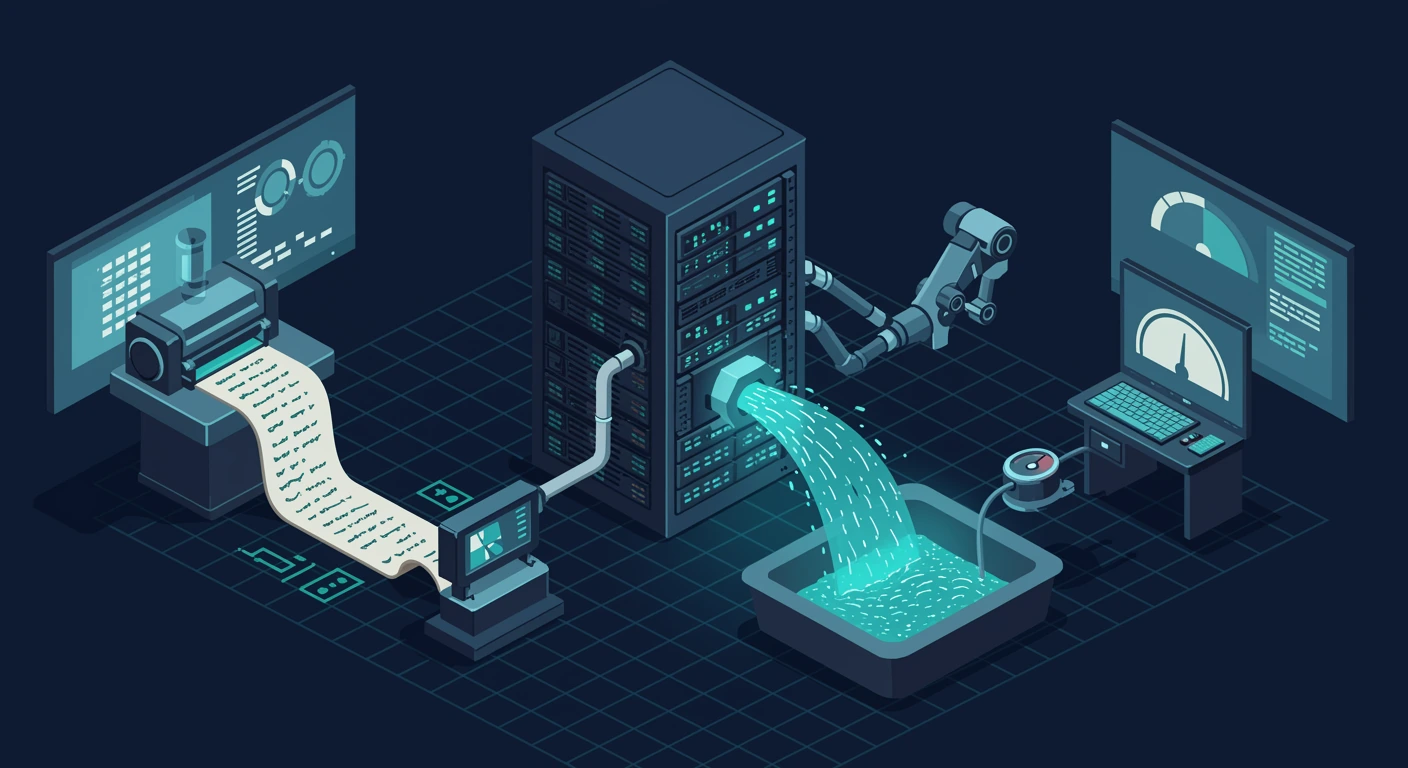
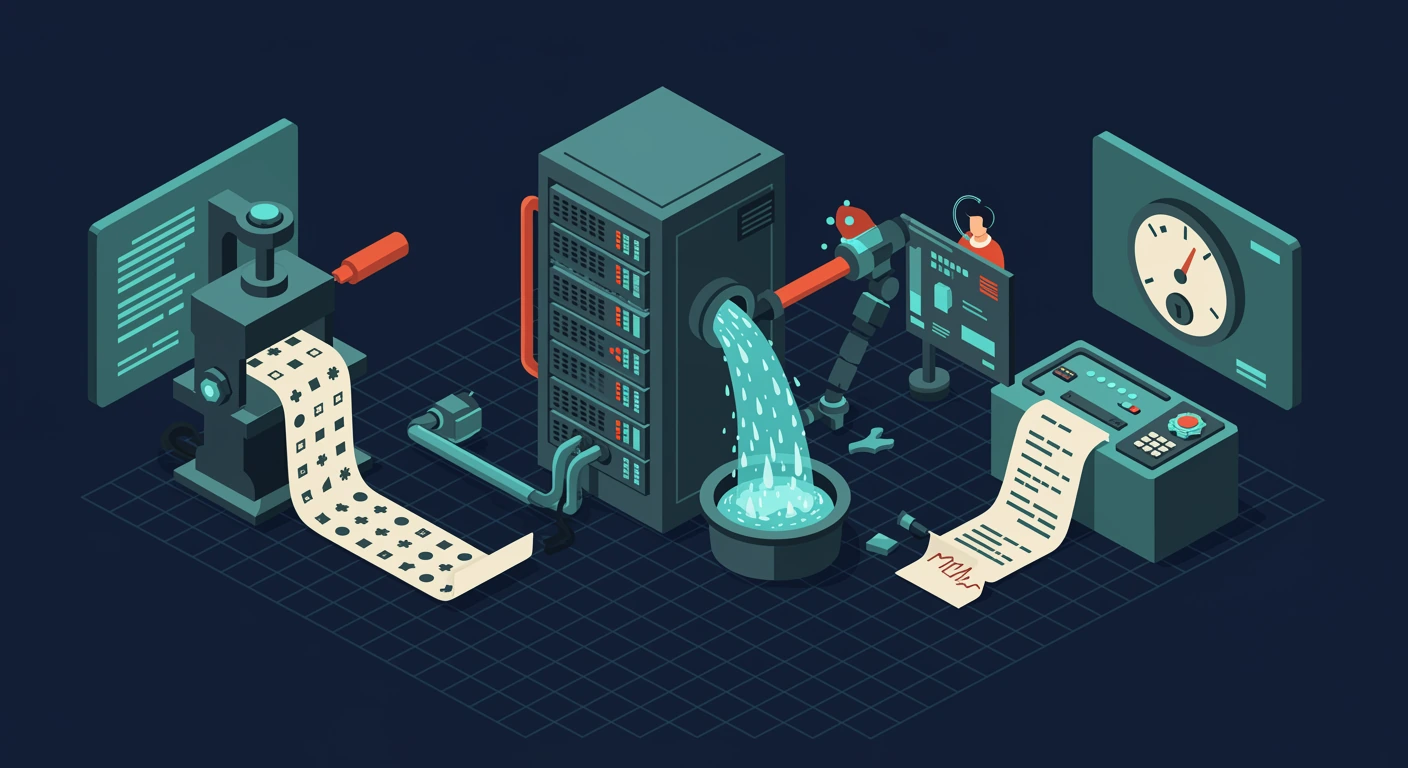
CSE lecture: blank the two surfaces that rendered fake handwriting
Chris BLOCK. Two of the 24 visuals carried cursive scrawl on a focal element, and I had
claimed all 24 were text-free:

  ch7-01 three-telemetry  the audit ledger ribbon, rows of joined fake letterforms
  ch8-04 guardrails       the top sheet on the binder stack, same treatment

Both are load-bearing objects, not frame corners -- a back-row student reads them as
"there is writing there I cannot make out", which is the exact distraction the standard
exists to prevent.

Why I missed them: I reviewed 24 images as contact sheets downscaled to 660px, which is
below the size at which scrawl is distinguishable from the abstract dash convention the
set uses legitimately. Verification has to happen at the resolution the defect lives at.
This pass used 2x zoomed crops of the specific surfaces.

Fix follows the pattern that worked for the UI-panel garbling earlier in this deck: give
the surface something non-letterform to carry rather than restating "no text" more
loudly. The ledger now punches solid geometric shapes; the binder stack is closed blank
covers with no loose sheets.

Also fixed, from the same review: the extractor stripped a literal "Demo:" prefix but the
companion deck writes "Demo cue:", so one presenter note read "DEMO - Demo cue: ...".
Presenter-only text, never projected, but wrong.

Chris ruled the "CERTIFICATE" word on ch8-02 STAYS -- single correct on-topic word,
functionally identical to the "API" already passed on ch1, and it reinforces the read.
[…]

diff --git a/_app/houses/cloud/cse/instructor/cse-lecture-ch6.html b/_app/houses/cloud/cse/instructor/cse-lecture-ch6.html
@@ -251,7 +251,7 @@
       </div>
     </section>
 
-    <section class="slide" data-notes="{&quot;points&quot;: [&quot;The dependency tree is deeper than anyone thinks. A handful of direct dependencies routinely pulls in hundreds transitively. Nobody has read them. SCA exists because nobody can.&quot;, &quot;Containers do not shrink this, they package it. A base image carries an entire OS distribution&#x27;s worth of packages, most unused, all inheritable as CVEs. Minimal and distroless bases are a security control, not a size optimisation.&quot;, &quot;Provenance beats scanning alone: signed images, pinned digests instead of mutable tags, and a registry you control. :latest is not a version, it is a promise someone else can change.&quot;, &quot;Secrets in images &amp;mdash; baked-in keys survive in every layer forever, even if a later layer deletes the file. Layers are additive; deletion is cosmetic.&quot;, &quot;DEMO \u2014 Demo cue: pull any popular base image and run a scanner. The count of known CVEs in something nobody wrote a line of is the whole lesson.&quot;]}">
+    <section class="slide" data-notes="{&quot;points&quot;: [&quot;The dependency tree is deeper than anyone thinks. A handful of direct dependencies routinely pulls in hundreds transitively. Nobody has read them. SCA exists because nobody can.&quot;, &quot;Containers do not shrink this, they package it. A base image carries an entire OS distribution&#x27;s worth of packages, most unused, all inheritable as CVEs. Minimal and distroless bases are a security control, not a size optimisation.&quot;, &quot;Provenance beats scanning alone: signed images, pinned digests instead of mutable tags, and a registry you control. :latest is not a version, it is a promise someone else can change.&quot;, &quot;Secrets in images &amp;mdash; baked-in keys survive in every layer forever, even if a later layer deletes the file. Layers are additive; deletion is cosmetic.&quot;, &quot;DEMO \u2014 pull any popular base image and run a scanner. The count of known CVEs in something nobody wrote a line of is the whole lesson.&quot;]}">
       <h2>Your dependencies and your images are the realistic path in</h2>
       <p class="sub">Close the chapter where the actual incidents happen.</p>
       <div class="visual">

diff --git a/_app/houses/cloud/cse/instructor/cse-lecture-ch5.html b/_app/houses/cloud/cse/instructor/cse-lecture-ch5.html
@@ -237,7 +237,7 @@
       </div>
     </section>
 
-    <section class="slide" data-notes="{&quot;points&quot;: [&quot;Where it is defensible: port 443 on a load balancer that is deliberately public. That is the job.&quot;, &quot;Where it is a breach: port 22, 3389, or a database port. Management and data planes should never face the internet, and mass-scanners find them in minutes &amp;mdash; chapter two&#x27;s speed symmetry, made concrete.&quot;, &quot;The habit to teach: every rule answers two questions, port AND source. Students fixate on the port and default the source to anywhere. Make them say the source out loud each time.&quot;, &quot;The systemic fix: guardrails that reject the rule at creation beat audits that find it later. Preventive control over detective control &amp;mdash; a theme that returns in chapter eight.&quot;, &quot;DEMO \u2014 Demo cue: in the OpenStack sandbox, create a security group rule open to 0.0.0.0/0 . Let them see how completely ordinary it looks. The worst mistake in cloud networking produces no error message.&quot;]}">
+    <section class="slide" data-notes="{&quot;points&quot;: [&quot;Where it is defensible: port 443 on a load balancer that is deliberately public. That is the job.&quot;, &quot;Where it is a breach: port 22, 3389, or a database port. Management and data planes should never face the internet, and mass-scanners find them in minutes &amp;mdash; chapter two&#x27;s speed symmetry, made concrete.&quot;, &quot;The habit to teach: every rule answers two questions, port AND source. Students fixate on the port and default the source to anywhere. Make them say the source out loud each time.&quot;, &quot;The systemic fix: guardrails that reject the rule at creation beat audits that find it later. Preventive control over detective control &amp;mdash; a theme that returns in chapter eight.&quot;, &quot;DEMO \u2014 in the OpenStack sandbox, create a security group rule open to 0.0.0.0/0 . Let them see how completely ordinary it looks. The worst mistake in cloud networking produces no error message.&quot;]}">
       <h2>The rule that quietly allows everything</h2>
       <p class="sub">Spend a full minute here. This single line causes more incidents than any exploit in the syllabus.</p>
       <div class="visual">

diff --git a/_app/houses/cloud/cse/instructor/cse-lecture-ch3.html b/_app/houses/cloud/cse/instructor/cse-lecture-ch3.html
@@ -237,7 +237,7 @@
       </div>
     </section>
 
-    <section class="slide" data-notes="{&quot;points&quot;: [&quot;Why over-permissioning happens: broad access makes the error go away at 2am, and nothing ever forces the cleanup. Privilege only ratchets upward unless something pushes back.&quot;, &quot;Start from zero. Grant nothing, add what breaks. The reverse &amp;mdash; grant everything, remove what seems unused &amp;mdash; never completes. Nobody dares remove the last unknown permission.&quot;, &quot;Prefer roles over identities. Assign privilege to the JOB, let identities assume the job temporarily. Time-boxed assumption beats permanent attachment.&quot;, &quot;Audit the gap. Modern platforms can diff permissions GRANTED against permissions actually USED in the last 90 days. That diff is your least-privilege to-do list, generated for free.&quot;, &quot;DEMO \u2014 Demo cue: the students met this the hard way &amp;mdash; the IAM Policy Debugger game in this house is ten rounds of exactly this slide. Assign it as the homework companion.&quot;]}">
+    <section class="slide" data-notes="{&quot;points&quot;: [&quot;Why over-permissioning happens: broad access makes the error go away at 2am, and nothing ever forces the cleanup. Privilege only ratchets upward unless something pushes back.&quot;, &quot;Start from zero. Grant nothing, add what breaks. The reverse &amp;mdash; grant everything, remove what seems unused &amp;mdash; never completes. Nobody dares remove the last unknown permission.&quot;, &quot;Prefer roles over identities. Assign privilege to the JOB, let identities assume the job temporarily. Time-boxed assumption beats permanent attachment.&quot;, &quot;Audit the gap. Modern platforms can diff permissions GRANTED against permissions actually USED in the last 90 days. That diff is your least-privilege to-do list, generated for free.&quot;, &quot;DEMO \u2014 the students met this the hard way &amp;mdash; the IAM Policy Debugger game in this house is ten rounds of exactly this slide. Assign it as the homework companion.&quot;]}">
       <h2>Least privilege is engineering, not aspiration</h2>
       <p class="sub">Every student will nod at the principle. Teach the practice.</p>
       <div class="visual">

diff --git a/_app/houses/cloud/cse/instructor/cse-lecture-ch2.html b/_app/houses/cloud/cse/instructor/cse-lecture-ch2.html
@@ -237,7 +237,7 @@
       </div>
     </section>
 
-    <section class="slide" data-notes="{&quot;points&quot;: [&quot;Scale of surface. A modest cloud estate has thousands of individually-configurable resources, each with its own policy document. Every one is a chance to be wrong.&quot;, &quot;Nobody reviews. Self-service (chapter one, clause one) means the misconfiguration ships the moment it is typed.&quot;, &quot;Drift. Correct on Monday is not correct in June. Configuration decays unless something continuously re-checks it &amp;mdash; that is why posture management tools exist.&quot;, &quot;The classic case. Public object storage: gigabytes of customer data behind a checkbox. Walk one real disclosure with the class &amp;mdash; the pattern repeats yearly with new names attached.&quot;, &quot;DEMO \u2014 Demo cue: in the OpenStack sandbox, create a security group rule open to 0.0.0.0/0 and let the class watch how unremarkable it looks. The point: the worst mistake in cloud security produces no error message.&quot;]}">
+    <section class="slide" data-notes="{&quot;points&quot;: [&quot;Scale of surface. A modest cloud estate has thousands of individually-configurable resources, each with its own policy document. Every one is a chance to be wrong.&quot;, &quot;Nobody reviews. Self-service (chapter one, clause one) means the misconfiguration ships the moment it is typed.&quot;, &quot;Drift. Correct on Monday is not correct in June. Configuration decays unless something continuously re-checks it &amp;mdash; that is why posture management tools exist.&quot;, &quot;The classic case. Public object storage: gigabytes of customer data behind a checkbox. Walk one real disclosure with the class &amp;mdash; the pattern repeats yearly with new names attached.&quot;, &quot;DEMO \u2014 in the OpenStack sandbox, create a security group rule open to 0.0.0.0/0 and let the class watch how unremarkable it looks. The point: the worst mistake in cloud security produces no error message.&quot;]}">
       <h2>Misconfiguration is the number-one cause. Say why.</h2>
       <p class="sub">Not because engineers got worse &mdash; because the defaults meet self-service.</p>
       <div class="visual">

diff --git a/_planning/cse-visuals/ch2-8/regen2.py b/_planning/cse-visuals/ch2-8/regen2.py
@@ -1,0 +1,46 @@
+import os, io, requests, fal_client
+from PIL import Image
+from ch2_8_specs import BASE, NOTEXT
+
+# Both failures put CURSIVE SCRAWL on a paper surface -- a ledger ribbon and a sheet on a
+# binder stack. Paper is the surface that most strongly implies writing, so the fix is the
+# same as the UI-panel one: describe the surface as explicitly blank and give it a
+# non-letterform alternative to carry, rather than restating "no text" harder.
+NOSCRAWL = ("\n\nEVERY sheet of paper, ribbon, page, label and document in this image is "
+            "COMPLETELY BLANK -- no handwriting, no cursive, no scrawl, no wavy lines "
+            "imitating writing, no rows of text, no letterforms of any kind. Paper surfaces "
+            "are plain empty colour.")
+
+JOBS = {
+ "ch7-01-three-telemetry": (
+   "Scene: three very different instruments reading one machine.\n\n"
+   "One large glowing server machine stands in the centre. Three completely different "
+   "instruments are attached to it, each tended by its own small robot:\n\n"
+   "LEFT -- a heavy mechanical stamping press punching a row of identical small SOLID GEOMETRIC "
+   "SHAPES onto a long unrolling blank ribbon: plain filled circles and squares only, evenly "
+   "spaced like a punch-card, absolutely not writing. The ribbon is otherwise completely blank. "
+   "Glowing emerald.\n\n"
+   "CENTRE -- a firehose nozzle gushing an overwhelming torrent of tiny glowing droplets into an "
+   "overflowing basin, far more than anyone could catch. Glowing cyan.\n\n"
+   "RIGHT -- a single large clean gauge dial with one needle swinging sharply into a red zone. "
+   "The dial face has plain tick marks and no numbers. Glowing amber.\n\n"
+   "The three outputs must look nothing like each other."),
+
+ "ch8-04-guardrails": (
+   "Scene: what actually stops the vehicle.\n\n"
+   "On the LEFT, a towering teetering stack of dusty BLANK binders and plain closed folders, far "
+   "taller than the small human beside it, leaning dangerously. Every binder is shut and its "
+   "cover is plain unmarked colour. No loose papers, no open pages, no sheets on top. A vehicle "
+   "drives straight PAST the stack without slowing and one binder topples off unnoticed.\n\n"
+   "On the RIGHT, the same vehicle meets solid, heavy, glowing EMERALD GREEN physical GUARDRAILS "
+   "along a curve of road. The vehicle is firmly deflected back onto the road, sparks where it "
+   "touched, unable to leave the path. The rails are strong and obviously effective.\n\n"
+   "Same road, same vehicle, two very different outcomes."),
+}
+
+for slug, body in JOBS.items():
+    res = fal_client.subscribe('fal-ai/imagen3', arguments={
+        'prompt': BASE + body + NOTEXT + NOSCRAWL, 'aspect_ratio': '16:9'})
+    img = Image.open(io.BytesIO(requests.get(res['images'][0]['url'], timeout=180).content)).convert('RGB')
+    img.save(slug + '.webp', 'webp', quality=92, method=6)
+    print(' regenerated', slug, os.path.getsize(slug+'.webp')//1024, 'KB')

diff --git a/_planning/cse-visuals/ch2-8/build-decks.py b/_planning/cse-visuals/ch2-8/build-decks.py
@@ -47,7 +47,7 @@ def notes_json(slide):
     must NOT be projected; the whole point of the presenter panel."""
     def clean(s):
         # strip the leading bold label the companion deck uses inside cue/ask/demo divs
-        return re.sub(r'^(Class anchor:|Ask the room:|Demo:)\s*', '', s).strip().strip('"')
+        return re.sub(r'^(Class anchor:|Ask the room:|Demo cue:|Demo:)\s*', '', s).strip().strip('"')
     payload = {'points': [p for p in slide['points'] if p]}
     if slide.get('table'):
         payload['points'] += [t for t in slide['table'][1:] if t]
